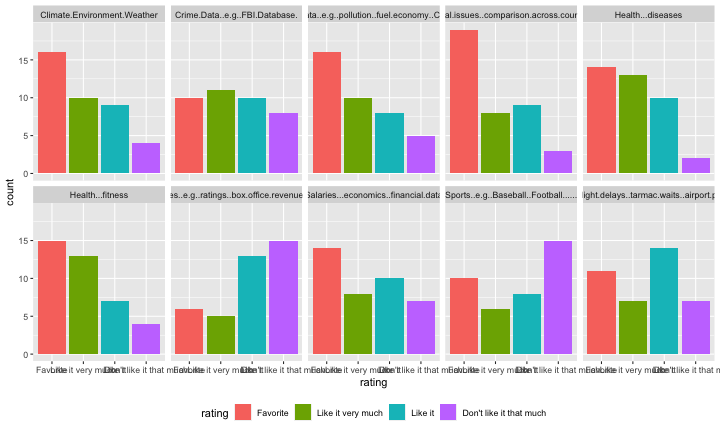
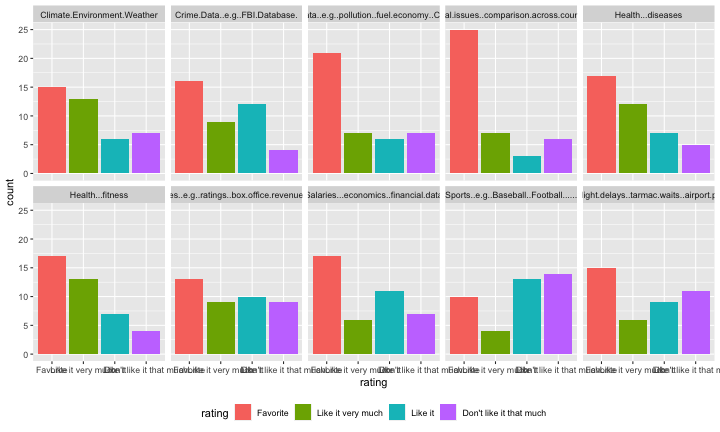
what you said

diff --git a/01_collaborative-environment/01b_what-you-said.html b/01_collaborative-environment/01b_what-you-said.html
@@ -1,10 +1,10 @@
 <!DOCTYPE html>
-<html xmlns="http://www.w3.org/1999/xhtml" lang="" xml:lang="">
+<html lang="" xml:lang="">
   <head>
     <title>Stat 579 - What you said</title>
     <meta charset="utf-8" />
     <meta name="author" content="Heike Hofmann" />
-    <meta name="date" content="2020-08-25" />
+    <script src="libs/header-attrs-2.24/header-attrs.js"></script>
     <link href="libs/remark-css-0.0.1/default.css" rel="stylesheet" />
     <link href="libs/remark-css-0.0.1/default-fonts.css" rel="stylesheet" />
   </head>
@@ -12,9 +12,12 @@
     <textarea id="source">
 class: center, middle, inverse, title-slide
 
+.title[
 # Stat 579 - What you said
+]
+.author[
 ### Heike Hofmann
-### 2020-08-25
+]
 
 ---
 
@@ -27,9 +30,9 @@ class: inverse, center, middle
 
 ## ... this is what wufoo tells us
 
-&lt;img src="images/topics-2019.png" width=600&gt;
-
-... there's nine more of these charts ... which topic is the best?
+&lt;img src="images/topics-2023.png" width=600&gt;
+  
+  ... there's eight more of these charts ... which topic is the best?
 
 ---
 
@@ -39,77 +42,78 @@ class: inverse, center, middle
 
 
 ```
-##   Sports..e.g..Baseball..Football...... Crime.Data..e.g..FBI.Database.
-## 1                     Like it very much                       Favorite
-## 2                              Favorite                       Favorite
-## 3               Don't like it that much                       Favorite
-## 4                               Like it              Like it very much
-## 5               Don't like it that much                        Like it
-## 6                               Like it                        Like it
-##    Health...fitness Health...diseases
-## 1 Like it very much           Like it
-## 2          Favorite          Favorite
-## 3          Favorite          Favorite
-## 4 Like it very much          Favorite
-## 5 Like it very much           Like it
-## 6           Like it Like it very much
+##    Date.Created Created.By Date.Updated Updated.By      IP.Address
+## 1 8/31/23 11:18     public           NA         NA 129.186.192.210
+## 2 8/31/23 11:18     public           NA         NA 129.186.192.158
+## 3 8/31/23 11:17     public           NA         NA   129.186.251.8
+## 4 8/31/23 11:17     public           NA         NA 129.186.192.148
+## 5 8/31/23 11:17     public           NA         NA 129.186.251.156
+## 6 8/31/23 11:16     public           NA         NA 129.186.252.185
+##   Last.Page.Accessed Completion.Status Sports..e.g..Baseball..Football......
+## 1                  1                 1                               Like it
+## 2                  1                 1                               Like it
+## 3                  1                 1                     Like it very much
+## 4                  1                 1                              Favorite
+## 5                  1                 1                               Like it
+## 6                  1                 1                     Like it very much
+##   Crime.Data..e.g..FBI.Database.  Health...fitness
+## 1                        Like it Like it very much
+## 2                       Favorite          Favorite
+## 3        Don't like it that much           Like it
+## 4                       Favorite          Favorite
+## 5              Like it very much          Favorite
+## 6                        Like it           Like it
 ##   Movies..e.g..ratings..box.office.revenues...... Climate.Environment.Weather
-## 1                         Don't like it that much                     Like it
-## 2                                        Favorite                    Favorite
-## 3                                         Like it                    Favorite
-## 4                         Don't like it that much           Like it very much
-## 5                                        Favorite           Like it very much
-## 6                                         Like it                    Favorite
+## 1                               Like it very much                     Like it
+## 2                                         Like it     Don't like it that much
+## 3                                         Like it                     Like it
+## 4                                        Favorite                    Favorite
+## 5                                         Like it                    Favorite
+## 6                                         Like it                     Like it
 ##   Traveling..e.g..flight.delays..tarmac.waits..airport.performance......
-## 1                                                      Like it very much
+## 1                                                Don't like it that much
 ## 2                                                               Favorite
-## 3                                                               Favorite
-## 4                                                                Like it
-## 5                                                               Favorite
+## 3                                                                Like it
+## 4                                                               Favorite
+## 5                                                                Like it
 ## 6                                                                Like it
+##   Health...diseases
+## 1           Like it
+## 2          Favorite
+## 3           Like it
+## 4          Favorite
+## 5          Favorite
+## 6           Like it
 ##   Environmental.Data..e.g..pollution..fuel.economy..CO2.emissions......
-## 1                                                               Like it
+## 1                                               Don't like it that much
 ## 2                                                              Favorite
-## 3                                                              Favorite
-## 4                                                     Like it very much
+## 3                                                               Like it
+## 4                                                              Favorite
 ## 5                                                              Favorite
-## 6                                                              Favorite
+## 6                                                               Like it
 ##   Salaries...economics..financial.data
-## 1              Don't like it that much
+## 1                    Like it very much
 ## 2                             Favorite
-## 3                             Favorite
-## 4                    Like it very much
-## 5                    Like it very much
+## 3                    Like it very much
+## 4                             Favorite
+## 5                             Favorite
 ## 6                              Like it
-##   Global.issues..comparison.across.countries              Other.topic.s.
-## 1                    Don't like it that much                            
-## 2                                   Favorite        Transportation Data 
-## 3                                   Favorite Natural language processing
-## 4                          Like it very much                            
-## 5                          Like it very much                            
-## 6                                   Favorite                            
-##                                                                                                                                                                                                                                                                                                                                                                                                                                                                                                                                                                                                                                                                                            Description
-## 1                                                                                                                                                                                                                                                                                                                                                                                                                                                                                                                                                                                                                                                                                                     
-## 2                                                                                                                                                                                                                                                                                                                                                                                                                                                                                                                                                                                                                                                           https://data.world/datasets/transportation
-## 3 My research is on integrated weed management. Among all the available definitions of weed, I would use "a plant out of place" to define it. I expect that the extension documents are written in a neutral tone. From time to time, I saw documents that refer to weeds as human enemies, which offers a sense of negativity. I'd like to see if the extension documents are neutral-tone, and if they are not, how to visualize the results in the most eye-catchy way. \nI understand that finding enough data and compiling them into a workable dataset would be very time-consuming. So my next question is how to do this data collection and wrangling the most effectively and efficiently. 
-## 4                                                                                                                                                                                                                                                                                                                                                                                                                                                                                                                                                                                                                                                                                                     
-## 5                                                                                                                                                                                                                                                                                                                                                                                                                                                                                                                                                                                                                                                                                                     
-## 6                                                                                                                                                                                                                                                                                                                                                                                                                                                                                                                                                                                                                                                                                                     
-##          Date.Created Created.By Last.Updated Updated.By      IP.Address
-## 1 2020-08-17 08:24:38     public           NA         NA 129.186.253.120
-## 2 2020-08-17 14:57:22     public           NA         NA 129.186.253.101
-## 3 2020-08-17 18:58:03     public           NA         NA   173.24.204.89
-## 4 2020-08-18 06:55:23     public           NA         NA    69.5.152.161
-## 5 2020-08-18 09:22:53     public           NA         NA      69.5.141.1
-## 6 2020-08-18 10:12:25     public           NA         NA  129.186.251.33
-##   Last.Page.Accessed Completion.Status
-## 1                  1                 1
-## 2                  1                 1
-## 3                  1                 1
-## 4                  1                 1
-## 5                  1                 1
-## 6                  1                 1
+##   Global.issues..comparison.across.countries Other.topic.s.
+## 1                    Don't like it that much               
+## 2                                   Favorite               
+## 3                                    Like it               
+## 4                                   Favorite               
+## 5                                   Favorite  Genomic data 
+## 6                                    Like it               
+##                                                       Description
+## 1                                                                
+## 2                                                                
+## 3                                                                
+## 4                                                                
+## 5 Genomic data containing data on the DNA sequences of organisms 
+## 6                             I like the soccer and esports data.
 ```
+
 
 ---
 
@@ -132,13 +136,13 @@ class: inverse, center, middle
 
 ---
 
-## ... a different picture ...
+## ... comparisons across topics ...
 
 ![](01b_what-you-said_files/figure-html/unnamed-chunk-5-1.png)&lt;!-- --&gt;
 
 ---
 
-## ... a different picture ...
+## ... with readable topics ...
 
 ![](01b_what-you-said_files/figure-html/unnamed-chunk-6-1.png)&lt;!-- --&gt;
 
@@ -156,14 +160,16 @@ class: inverse, center, middle
 
 ---
 
-## Additional topic suggestions
-
+## Additional Topics
 
 Range of other suggestions: 
-
+  
 Everything mentioned once or twice ... great for final projects 😄!
+  
+Education data (science, online learning, cognitive abilities, self-rating of abilities), agricultural data (seeds, pesticides, genomics), psychology and law, health: sleep, housing, media use, engineering/manufacturing, auto racing
 
-transportation (2), golf, Reinforcement Learning &amp; Anomaly detection Learning, microbiota composition, anything COVID related including comparisons with other countries, socio economic status etc, marketing,  education, natural resources, natural language processing
+
+
     </textarea>
 <style data-target="print-only">@media screen {.remark-slide-container{display:block;}.remark-slide-scaler{box-shadow:none;}}</style>
 <script src="https://remarkjs.com/downloads/remark-latest.min.js"></script>
@@ -210,9 +216,38 @@ if (window.HTMLWidgets) slideshow.on('afterShowSlide', function (slide) {
     }
     deleted = true;
   });
-})();</script>
-
-<script>
+})();
+// add `data-at-shortcutkeys` attribute to <body> to resolve conflicts with JAWS
+// screen reader (see PR #262)
+(function(d) {
+  let res = {};
+  d.querySelectorAll('.remark-help-content table tr').forEach(tr => {
+    const t = tr.querySelector('td:nth-child(2)').innerText;
+    tr.querySelectorAll('td:first-child .key').forEach(key => {
+      const k = key.innerText;
+      if (/^[a-z]$/.test(k)) res[k] = t;  // must be a single letter (key)
+    });
+  });
+  d.body.setAttribute('data-at-shortcutkeys', JSON.stringify(res));
+})(document);
+(function() {
+  "use strict"
+  // Replace <script> tags in slides area to make them executable
+  var scripts = document.querySelectorAll(
+    '.remark-slides-area .remark-slide-container script'
+  );
+  if (!scripts.length) return;
+  for (var i = 0; i < scripts.length; i++) {
+    var s = document.createElement('script');
+    var code = document.createTextNode(scripts[i].textContent);
+    s.appendChild(code);
+    var scriptAttrs = scripts[i].attributes;
+    for (var j = 0; j < scriptAttrs.length; j++) {
+      s.setAttribute(scriptAttrs[j].name, scriptAttrs[j].value);
+    }
+    scripts[i].parentElement.replaceChild(s, scripts[i]);
+  }
+})();
 (function() {
   var links = document.getElementsByTagName('a');
   for (var i = 0; i < links.length; i++) {
@@ -221,7 +256,23 @@ if (window.HTMLWidgets) slideshow.on('afterShowSlide', function (slide) {
     }
   }
 })();
-</script>
+// adds .remark-code-has-line-highlighted class to <pre> parent elements
+// of code chunks containing highlighted lines with class .remark-code-line-highlighted
+(function(d) {
+  const hlines = d.querySelectorAll('.remark-code-line-highlighted');
+  const preParents = [];
+  const findPreParent = function(line, p = 0) {
+    if (p > 1) return null; // traverse up no further than grandparent
+    const el = line.parentElement;
+    return el.tagName === "PRE" ? el : findPreParent(el, ++p);
+  };
+
+  for (let line of hlines) {
+    let pre = findPreParent(line);
+    if (pre && !preParents.includes(pre)) preParents.push(pre);
+  }
+  preParents.forEach(p => p.classList.add("remark-code-has-line-highlighted"));
+})(document);</script>
 
 <script>
 slideshow._releaseMath = function(el) {
